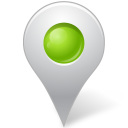
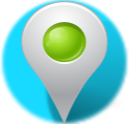
Actualizo iconos de la app

diff --git a/public_html/index.html b/public_html/index.html
@@ -7,6 +7,7 @@
         <meta name="viewport" content="width=device-width, initial-scale=1">
         <meta http-equiv="Content-Type" content="text/html; charset=UTF-8">
         <link rel="stylesheet" href="js/jquery.mobile-1.4.0.min.css" />
+        <link rel="stylesheet" href="http://demos.jquerymobile.com/1.4.0/theme-classic/theme-classic.css" />
         <link type="text/css" rel="stylesheet" href="css/stylesheet.css"/>
         <script type="text/javascript" src="https://maps.google.com/maps/api/js?sensor=true"></script>
         <script type="text/javascript" src="js/gmaps.js"></script>
@@ -18,21 +19,21 @@
     </head>
     <body id="body">
         <!-- Comienzo de la primera pagina-->
-        <div data-role="page" id="one">
+        <div data-role="page" id="one" data-theme="b">
             <div class="titulo" data-role="header">
                 <h1>LocMap</h1>
             </div><!-- /header1 -->
             <div   id="contenedor" role="main" class="ui-content">
-               
-                    <div id="imagen" class="ui-field-contain"> 
+
+                <div id="imagen" class="ui-field-contain"> 
                     <img  src="img/localization.png"   alt="fondo"/>
                 </div>
-             
+
             </div><!-- /content -->
         </div><!-- /page -->
 
         <!-- Comienzo de la segunda página -->
-        <div data-role="page" id="two" class="ui-page ui-page-theme-a">
+        <div data-role="page" id="two" data-theme="b">
             <div class="titulo" id="titulo" data-role="header">
                 <h1>LocMap</h1>
                 <a href="#three" class="ui-btn ui-shadow ui-corner-all ui-icon-arrow-r ui-btn-icon-left ui-btn-icon-notext ui-btn-right">derecha</a>
@@ -49,7 +50,7 @@
         <!-- /page -->
 
         <!-- Comienzo de la tercera pagina-->
-        <div data-role="page" id="three">
+        <div data-role="page" id="three" data-theme="b">
             <div class="titulo" data-role="header">
                 <h1>LocMap</h1>
                 <a href="#two" class="ui-btn ui-shadow ui-corner-all ui-icon-arrow-l ui-btn-icon-left ui-btn-icon-notext">derecha</a>
